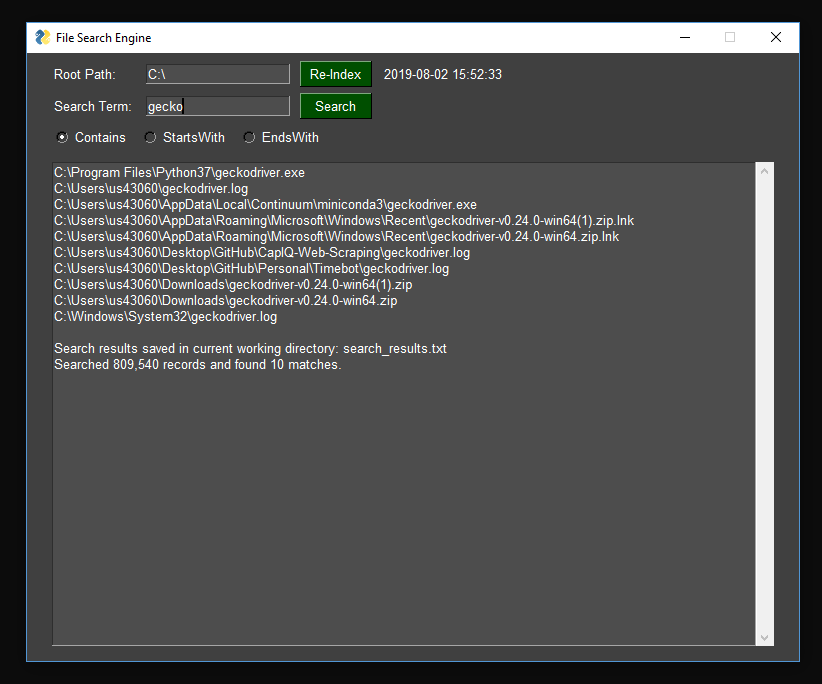
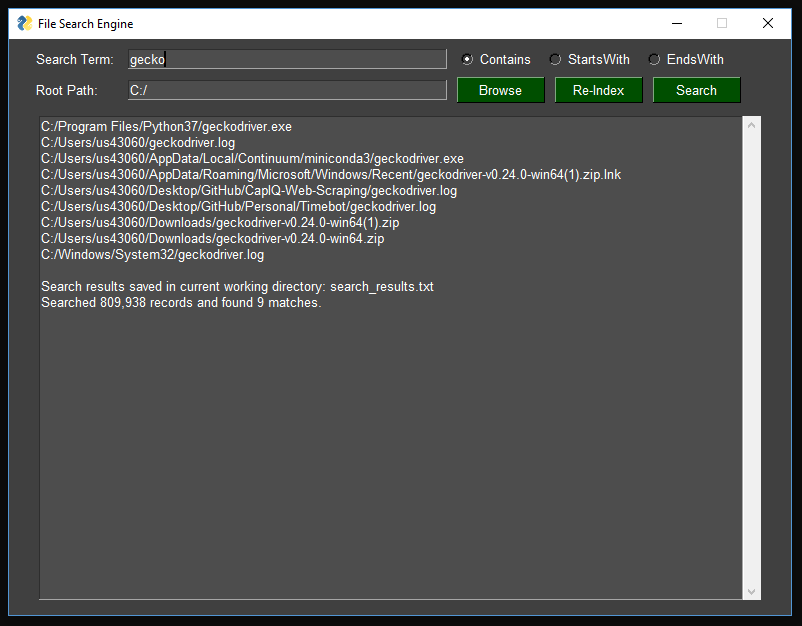
refactored code into classes

Changed region(s): [[0.0, 0.0, 0.9975, 1.0]]

diff --git a/crawler_search.py b/crawler_search.py
@@ -1,0 +1,57 @@
+from collections import namedtuple
+import datetime
+import pickle
+import os
+
+FileIndex = namedtuple("FileIndex","modified directory")
+
+class Crawler:
+    def __init__(self):
+        self.file_index = FileIndex(None, None)
+        self.results = []
+        self.matches = 0
+        self.records = 0
+
+    def create_new_index(self, values):
+        path = values['_PATH_']
+        modified = datetime.datetime.now().strftime("%Y-%m-%d %H:%M:%S")
+        directory = [(root, files) for root, dirs, files in os.walk(path) if files]
+        self.file_index = FileIndex(modified, directory)
+
+        # save index to file
+        with open('file_index.pkl','wb') as pkl:
+            pickle.dump(self.file_index, pkl)
+
+    def load_existing_index(self):
+        try:
+            with open('file_index.pkl','rb') as pkl:
+                self.file_index = pickle.load(pkl)
+        except:
+            self.file_index = FileIndex(None, None)
+
+    def search(self, values):
+        self.matches = 0
+        self.records = 0
+        self.results.clear()
+        term = values['_TERM_']
+
+        for (path, files) in self.file_index.directory:
+            for file in files:
+                self.records +=1
+                if (values['contains'] and term.lower() in file.lower() or
+                    values['startswith'] and file.lower().startswith(term.lower()) or
+                    values['endswith'] and file.lower().endswith(term.lower())):
+
+                    result = path.replace('\\','/') + "/" + file
+                    self.results.append(result)
+                    self.matches +=1
+                else:
+                    continue
+
+        # save results to text file
+        with open('search_results.txt','w') as f:
+            for row in self.results:
+                f.write(row + "\n")       
+    
+
+            

diff --git a/crawler_gui.py b/crawler_gui.py
@@ -1,0 +1,18 @@
+import PySimpleGUI as sg
+sg.ChangeLookAndFeel("Dark")
+
+class Gui:
+    def __init__(self, crawler):
+        self.crawler = crawler
+        self.layout = [[sg.Text('Search Term:', size=(10,1)),
+                        sg.Input('', size=(45,1), key="_TERM_", focus=True),
+                        sg.Radio('Contains', group_id='type', key='contains', default=True),
+                        sg.Radio('StartsWith', group_id='type', key='startswith'),
+                        sg.Radio('EndsWith', group_id='type', key='endswith')],
+                       [sg.Text('Root Path:', size=(10,1)),
+                        sg.In("C:/", key="_PATH_", size=(45,1)),
+                        sg.FolderBrowse(target=(1,1),size=(10,1)),
+                        sg.Button('Re-Index', size=(10,1), key="_INDEX_"),
+                        sg.Button('Search', size=(10,1), key="_SEARCH_", bind_return_key=True)],
+                       [sg.Output(size=(100,30), pad=(10,10), key="_OUT_")]]                
+        self.window = sg.Window('File Search Engine').Layout(self.layout)

diff --git a/main.py b/main.py
@@ -1,0 +1,33 @@
+from crawler_gui import *
+from crawler_search import *
+
+crawler = Crawler()
+gui = Gui(crawler)
+
+def main():
+
+    crawler.load_existing_index()
+
+    while True:
+        event, values = gui.window.Read()
+
+        if event is None:
+            quit()
+                
+        if event == '_SEARCH_':
+            print(event)
+            gui.window.Element('_OUT_').Update(value='') # clear output
+            crawler.search(values)
+
+            for result in crawler.results:
+                print(result)
+
+            print("\nSearch results saved in current working directory: search_results.txt")
+            print("Searched {:,d} records and found {:,d} matches.".format(crawler.records, crawler.matches))
+
+        if event == "_INDEX_":
+            crawler.create_new_index(values)
+            gui.window.Element('_OUT_').Update(value='')
+            gui.window.Element('_OUT_').Update(value='\nFile index has been updated.')
+        
+main()
